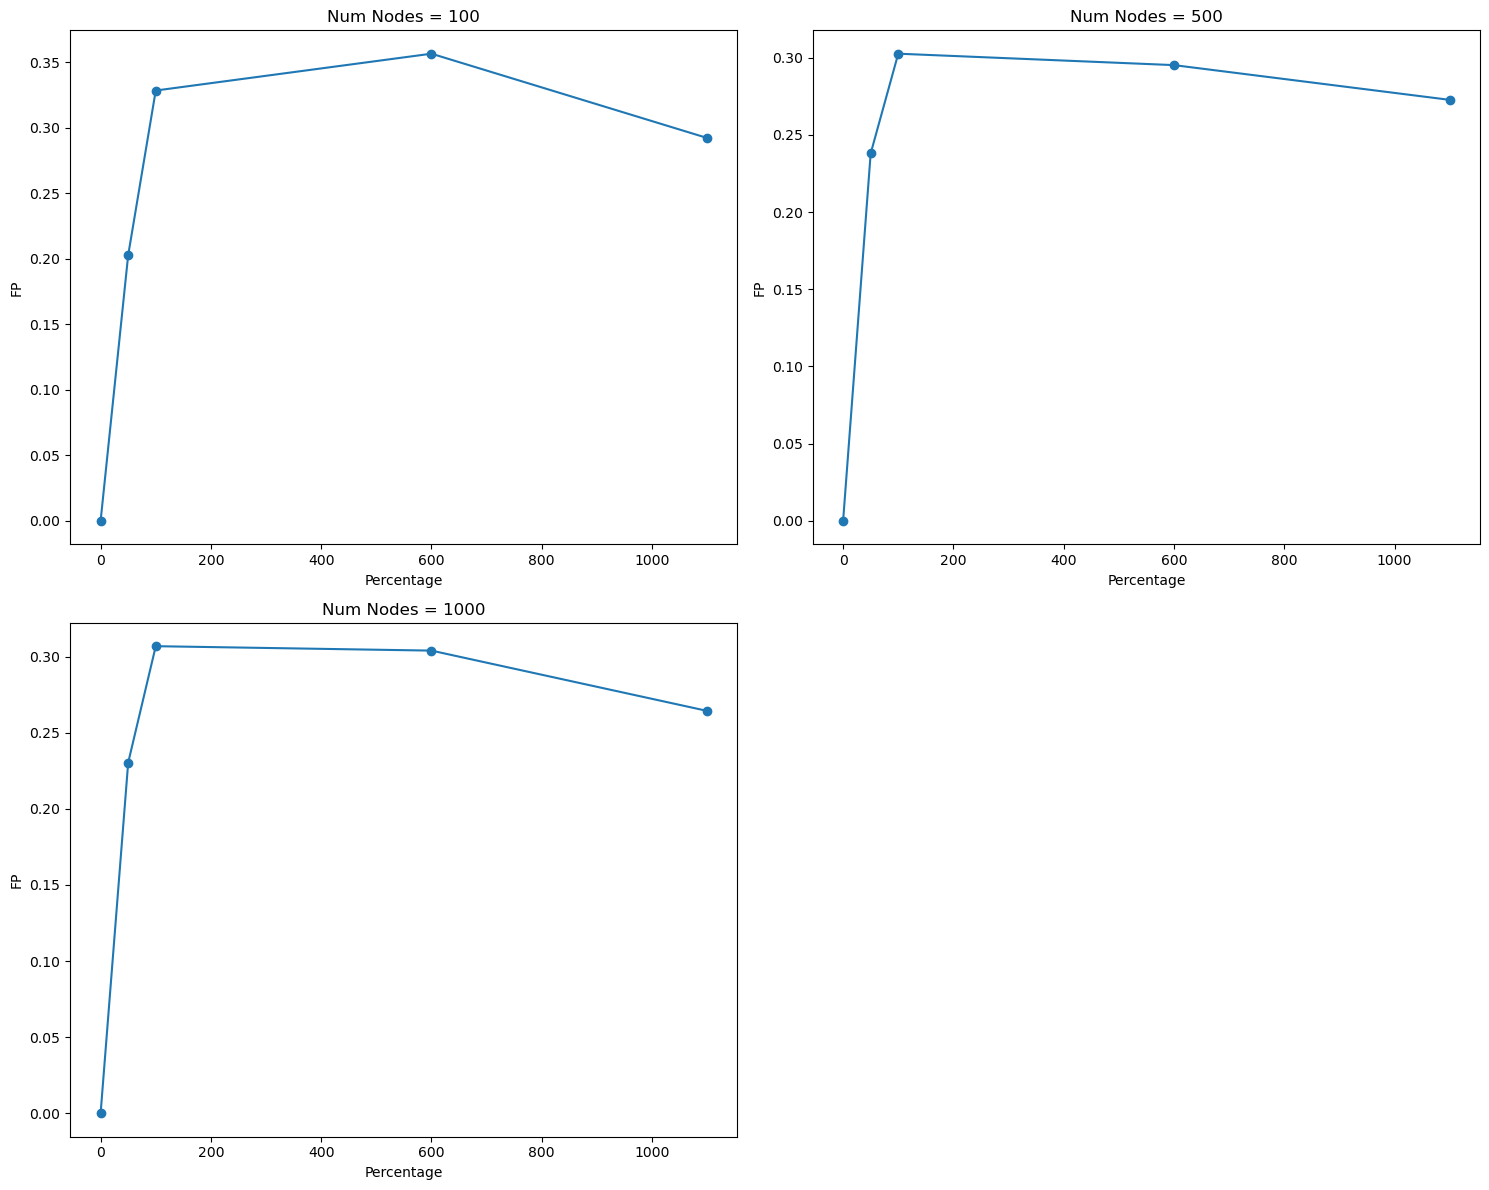
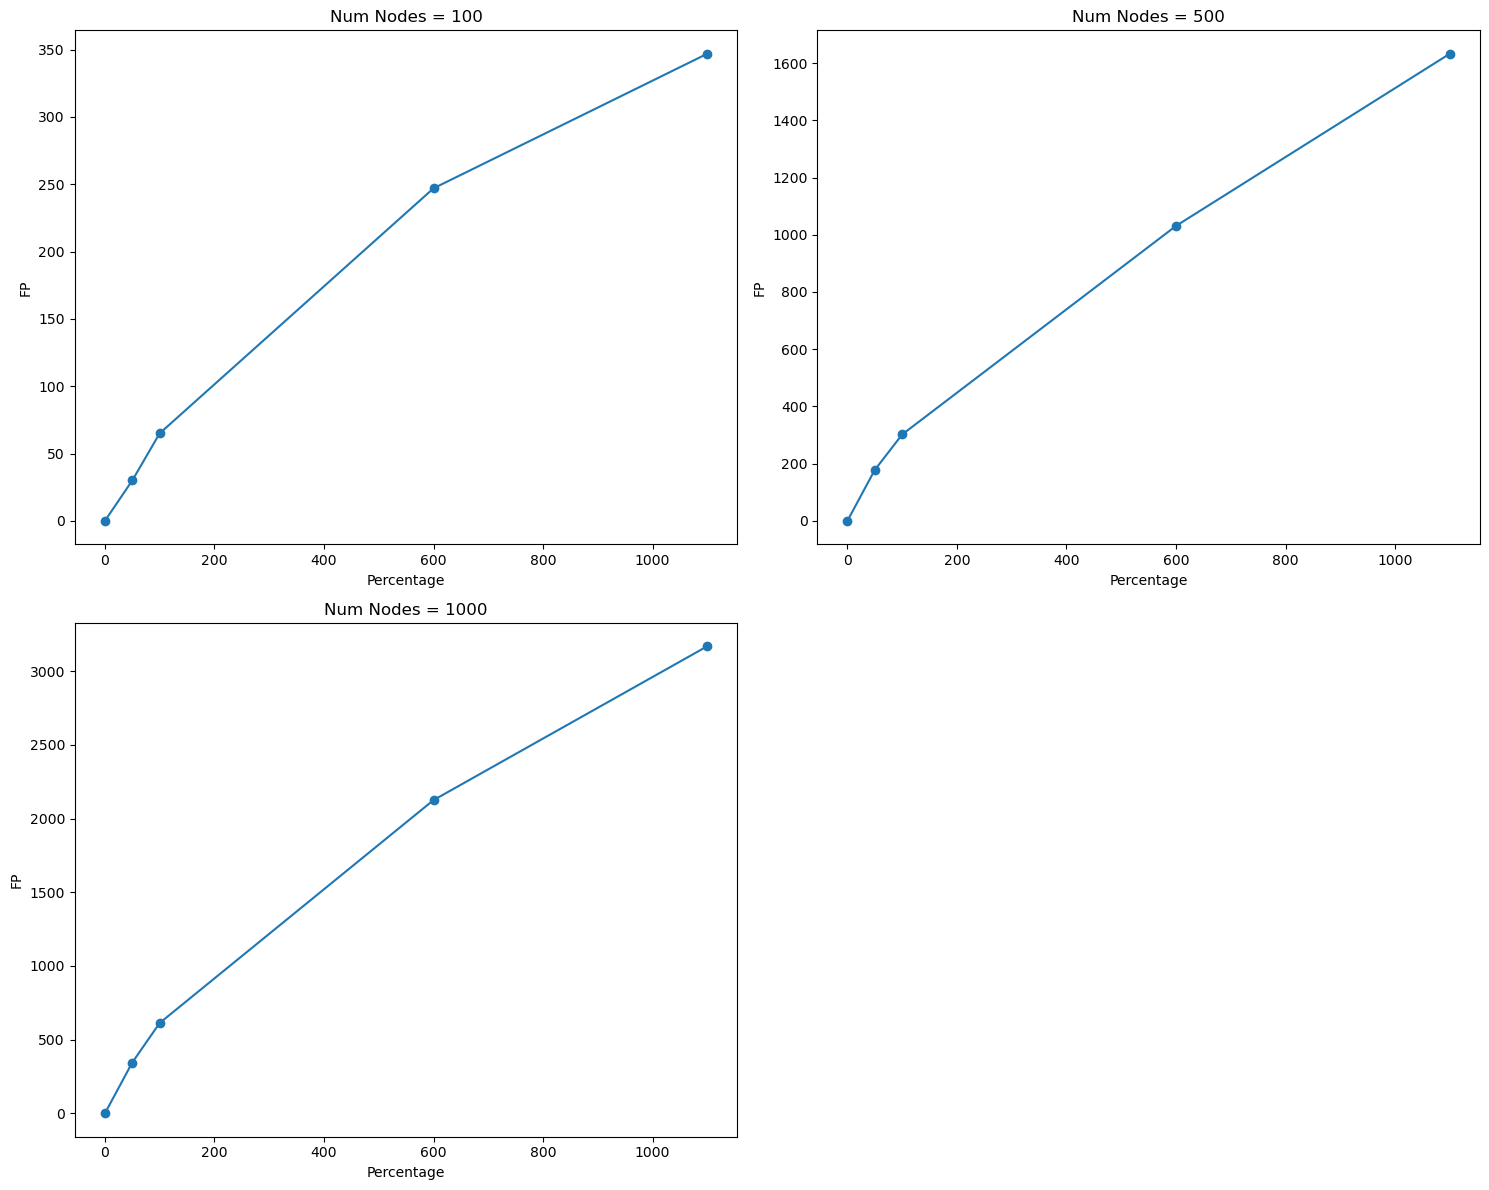
r

diff --git a/alg_1/compare_graphs.py b/alg_1/compare_graphs.py
@@ -33,13 +33,14 @@ def compute_statistics(G: nx.Graph, H: nx.Graph):
     accuracy = (TP + TN) / (TP + FP + FN + TN) if (TP + FP + FN + TN) > 0 else 0
     precision = TP / (TP + FP) if (TP + FP) > 0 else 0
     recall = TP / (TP + FN) if (TP + FN) > 0 else 0
+    TNR = TN / (TN + FN) if (TN + FN) > 0 else 0
     f1_score = (
         2 * (precision * recall) / (precision + recall)
         if (precision + recall) > 0
         else 0
     )
 
-    return TP, FP, FN, TN, accuracy, precision, recall, f1_score
+    return TP, FP, FN, TN, accuracy, precision, recall, TNR, f1_score
 
 
 def compare_graphs(G_filepath, H_filepath, output_csv):
@@ -58,6 +59,7 @@ def compare_graphs(G_filepath, H_filepath, output_csv):
         accuracy,
         precision,
         recall,
+        TNR,
         f1_score,
     ) = compute_statistics(G, H)
 
@@ -68,24 +70,19 @@ def compare_graphs(G_filepath, H_filepath, output_csv):
     num_of_nodes = parts[1]
     percentage = parts[2]
 
-    total_edges = len(G.edges)
-
     result_data = {
         "G filename": G_filename,
         "H filename": H_filename,
         "Number of nodes": num_of_nodes,
         "Added edges perncetage": percentage,
-        "TP": round(TP / total_edges, 4),
-        "FP": round(FP / total_edges, 4),
-        "FN": round(FN / total_edges, 4),
-        "TN": round(TN / total_edges, 4),
-        # "TP": TP,
-        # "FP": FP,
-        # "FN": FN,
-        # "TN": TN,
+        "TP": TP,
+        "FP": FP,
+        "FN": FN,
+        "TN": TN,
         "Accuracy": round(accuracy, 4),
         "Precision": round(precision, 4),
         "Recall": round(recall, 4),
+        "True negative rate": TNR,
         "F1-Score": round(f1_score, 4),
     }
 
